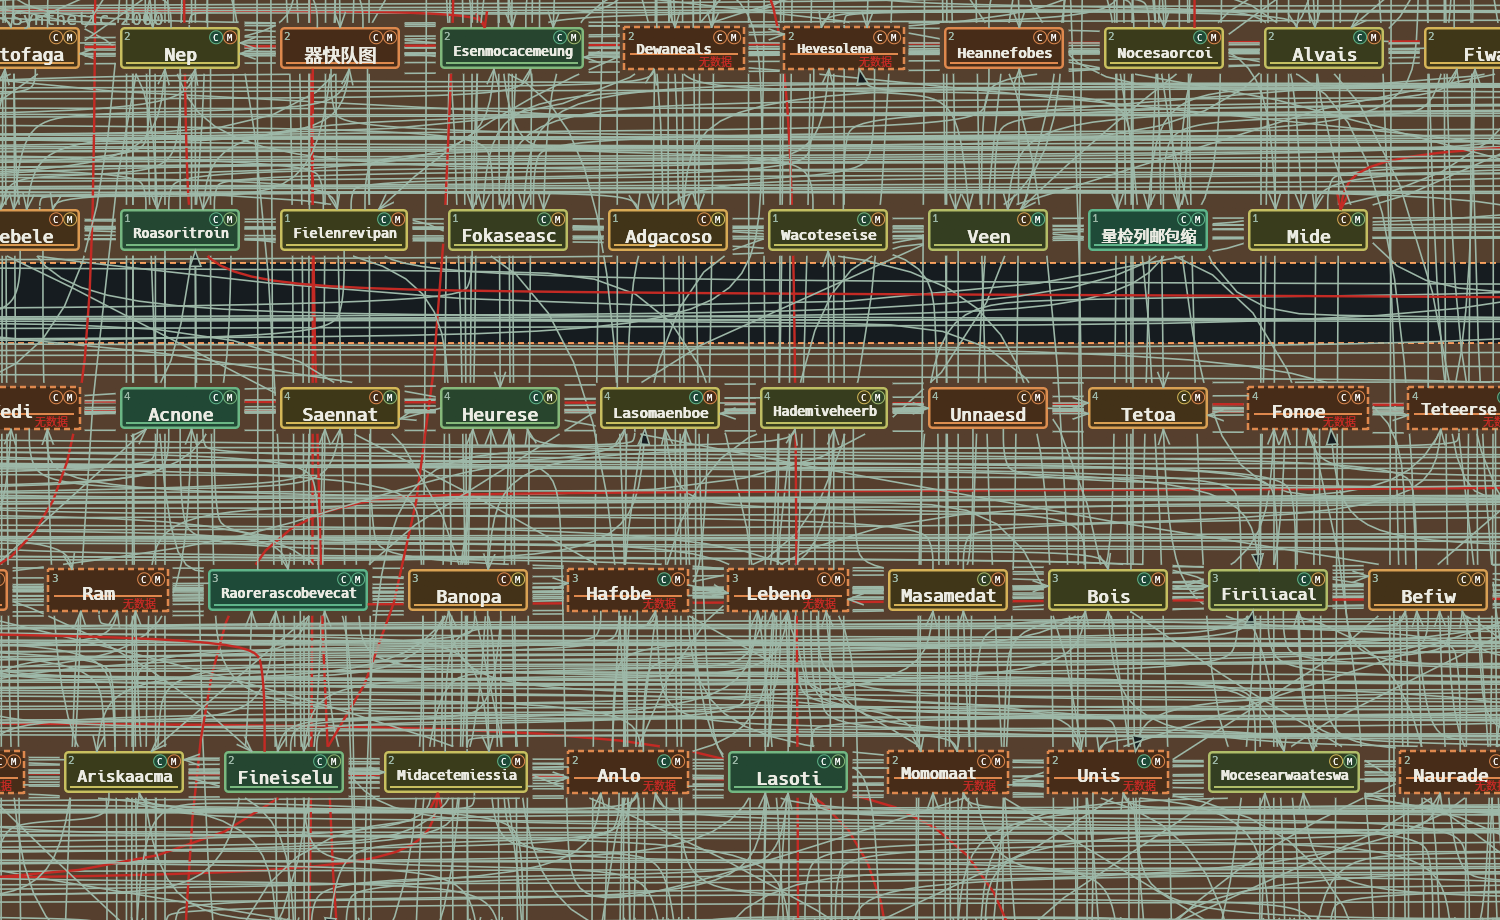
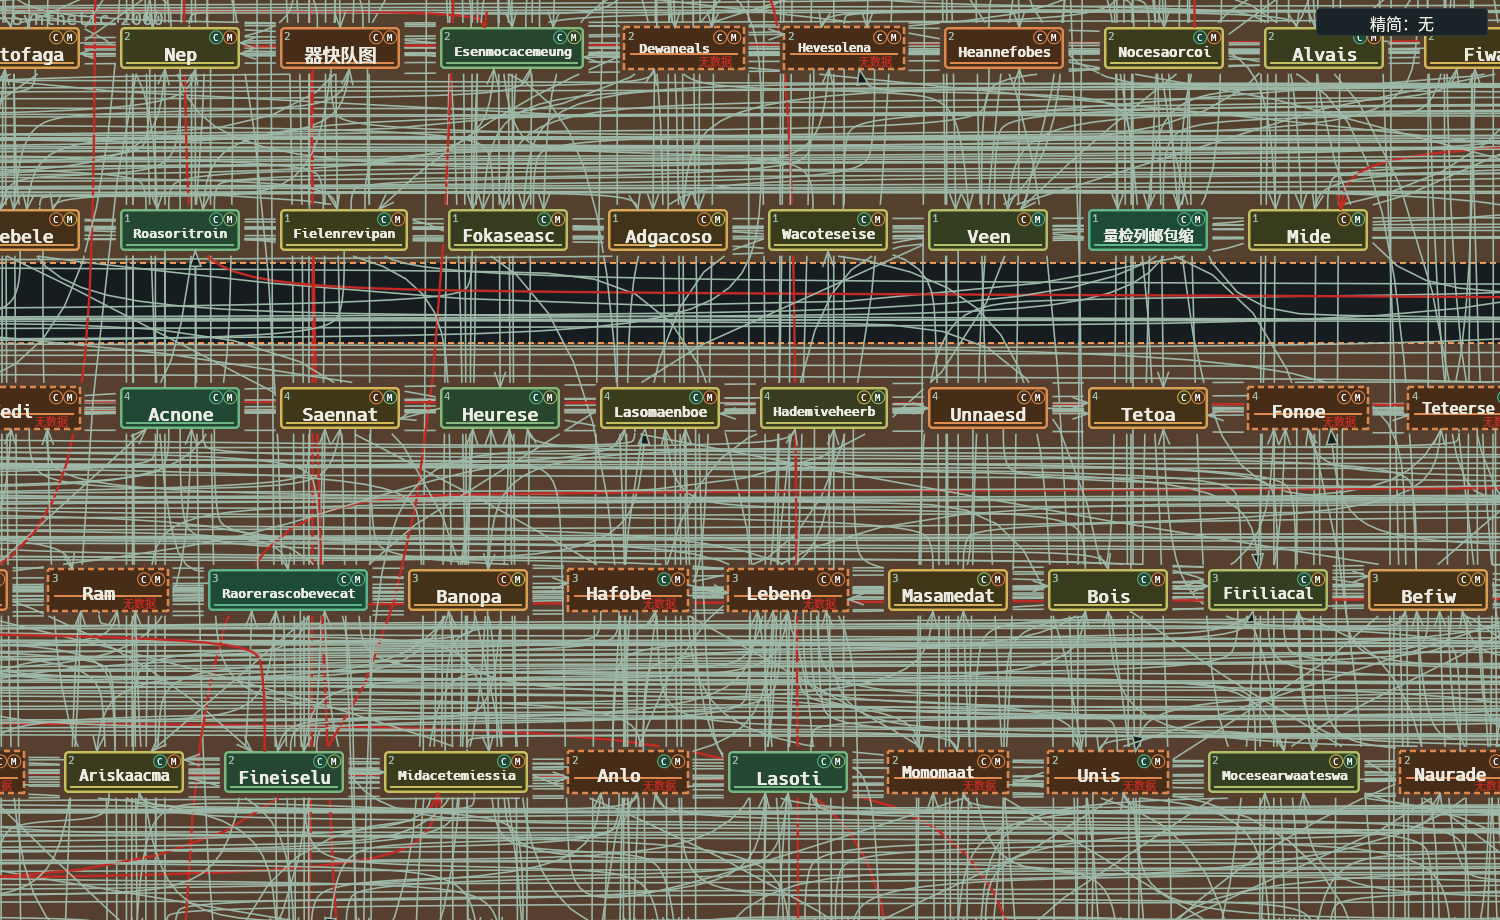
docs(acceptance): #143 protocol-1 re-measured after the render cache fix

diff --git a/acceptance-evidence/143-rust-install/README.md b/acceptance-evidence/143-rust-install/README.md
@@ -11,9 +11,9 @@ egui/eframe 0.37 + wgpu GL 后端，Mesa 25.2.8。所有数字均为本机实测
 |---|---|---|
 | 缺依赖时给出明确提示 | 通过 | `scripts/test_posix_entries.py`：缺 cargo（提示 rustup / `UML_CARGO_EXECUTABLE`，且不创建 `.uml-viewer/`）、缺 git、cargo 版本与 `rust-toolchain.toml` 不符（同时列出要求版本与实际版本）、构建未产出二进制；缺 libxkbcommon-x11 只警告不拒绝（#139 选定 Wayland 无装饰） |
 | 重复安装幂等 | 通过 | `test_reinstall_is_idempotent_and_provisions_all_three_tools`：两次安装都成功；policy（含 `:proposals`）字节不变；每次都在 `.uml-viewer/uml-viewer` 中执行 `build --release --locked`；`install.json` 的 `rust` 指向 `target/release/uml-viewer`。已有 ownership/recovery 记录时拒绝（`test_install_refuses_existing_ownership`），脏工具副本仍被保留（`test_installer_preserves_dirty_tool_checkout`） |
-| 2000 类平移/缩放 p95 ≤ 33.3 ms | **未通过** | `rust-2000-d3d12/summary.txt`：p95 为 96.7 / 128.3 / 222.6 / 255.8 ms |
-| 500 类稳定 60 fps | **未通过** | `rust-500-d3d12/summary.txt`：fps 为 30.6 / 20.8 / 22.3 / 14.6 |
-| 空闲 CPU 近零（≤ 2%） | **未通过** | 500：6.41%；2000：19.81% |
+| 2000 类平移/缩放 p95 ≤ 33.3 ms | 通过（修复后） | `rust-2000-d3d12/summary.txt`：p95 为 17.59 / 17.91 / 17.59 / 29.85 ms，`verdict=PASS`，`run_rust.sh` 退出 0 |
+| 500 类稳定 60 fps | **未通过（差边缘）** | `rust-500-d3d12/summary.txt`：fps 为 59.12 / 57.86 / 59.32 / 57.05；pan-detail、pan-fit 通过，zoom-detail（57.86 fps，p95 18.10 ms）和 zoom-fit（57.05 fps，p95 19.05 ms）略低于 58 fps / 18.3 ms 门槛 |
+| 空闲 CPU 近零（≤ 2%） | 通过（修复后） | 500：0.40%；2000：0.40% |
 | 大图首帧不崩溃 | 通过 | 2000 类完整跑完 warmup 与五个相位，stderr 中没有 panic；`rust-2000-d3d12/render.png` 是第 4 帧截图 |
 | 测量结果与结论写入验收证据 | 通过 | 本文件与两个结果目录 |
 
@@ -22,6 +22,27 @@ egui/eframe 0.37 + wgpu GL 后端，Mesa 25.2.8。所有数字均为本机实测
 窗口 1500 × 920，DPI 1，vsync 用 eframe 默认值（AutoVsync）。
 
 ## Protocol 1 结果（Rust viewer，D3D12）
+
+### 修复后（`ticket/143-perf`）
+
+两次完整运行（500、2000 各一次），与 #141 agent 的 driver 运行同时进行，共享 GPU/WSLg。
+
+| 场景 | 相位 | fps | p95 ms | 进程 CPU% |
+|---|---|---|---|---|
+| 500 | idle | — | — | 0.40 |
+| 500 | pan-detail | 59.12 | 17.52 | 44.2 |
+| 500 | zoom-detail | 57.86 | 18.10 | 49.8 |
+| 500 | pan-fit | 59.32 | 17.70 | 39.4 |
+| 500 | zoom-fit | 57.05 | 19.05 | 53.9 |
+| 2000 | idle | — | — | 0.40 |
+| 2000 | pan-detail | 58.94 | 17.59 | 52.3 |
+| 2000 | zoom-detail | 58.50 | 17.91 | 57.9 |
+| 2000 | pan-fit | 58.87 | 17.59 | 42.8 |
+| 2000 | zoom-fit | 53.19 | 29.85 | 58.4 |
+
+2000 类 stderr 中没有 panic，首帧截图 `rust-2000-d3d12/render.png`。
+
+### 修复前（原始测量，结果目录已被上表覆盖）
 
 | 场景 | 相位 | fps | p95 ms | 进程 CPU% |
 |---|---|---|---|---|
@@ -42,23 +63,21 @@ egui/eframe 0.37 + wgpu GL 后端，Mesa 25.2.8。所有数字均为本机实测
 
 ## 结论与原因
 
-viewer 的性能**未**达到 protocol 1 门槛。#131 原型在同一台机器上达标
-（2000 类 p95 ≤ 26.6 ms），所以差距在 viewer 的实现，而不在平台。
-`app_cpu_ms_p95`（eframe 每帧 CPU）与帧间隔基本一致，说明瓶颈在 CPU 端：
+修复前的瓶颈（CPU 端）：`paint()` 每帧从场景 `Value` 重建全部类/边命令；文字按非整数字号拟合，绕过 egui 的 galley 缓存；
+总览档的 feathered 曲线和圆角矩形细分很贵；Blocks 档仍画全部边；空闲时按 250 ms 轮询节奏重绘。
 
-- `crates/viewer/src/paint.rs` 中的 `paint()` 每帧都要从 EDN 场景 `Value`
-  重建完整的 `commands::commands(...)`（第 343 行）和 `commands::edge_commands(...)`
-  （第 754 行），之后才做视口剔除。这正是 ADR 0008 认定的瓶颈：每帧在 CPU 上
-  重建全部几何。原型是一次性预先计算几何和每条边的包围盒。
-- 空闲 CPU 是同一种开销按 250 ms 轮询节奏触发的结果：`app.rs` 每帧都会调用
-  `request_repaint_after(POLL_INTERVAL)`，所以空闲时每秒重绘约 4 次，每次都要
-  重建完整的命令列表（500 类约 15 ms，2000 类约 63 ms）。
+修复（`crates/viewer/src/render_cache.rs`、`paint.rs`、`watch.rs`、`app.rs`、`bench.rs`）：
 
-这里没有修复。修复需要按场景 revision/选中/悬停缓存命令列表（在 `paint.rs`/`app.rs`），
-而这两个文件属于并行的 #140；我也不在验收工单里重设计 viewer 的渲染路径。
-建议另开工单：缓存命令与边几何（含预先计算的包围盒），只在 revision、选中或悬停
-变化时失效；并且只在 mtime 变化时才重绘，而不是按轮询节奏重绘。修复后用下面的
-命令复测即可。
+- 命令只在场景（revision/focus/extra）、选中或悬停变化时重建；LOD 档或总览缩放的四分之一倍频程台阶变化时只重新简化边折线
+  （距离 8 px 加 0.5 px 弦偏差）。平移和缩放只改变换。
+- 文字按整数像素拟合，排版结果跨帧缓存（图集清空或 DPI 变化时失效）；小于 5 px 的画布文字不画。
+- Frames/Blocks 档的类框、C/M 圆点、边合成一个无 feather 的 mesh；Blocks 不画边（spec #134 渲染）；小于 2 px 的圆角改为直角；
+  缩放 < 0.6 时 Full 档的边也走 mesh。
+- 空闲：后台线程只 stat IR、`.metrics/**` 和 `to-viewer.edn`，戳变化才请求重绘；driver、计时运行和待截图仍保留 250 ms 节奏。
+  bench 的 idle 相位自己安排结束时的唤醒。
+
+仍未通过：500 类的 zoom-detail 和 zoom-fit 略低于 58 fps / p95 18.3 ms（中位数都是 16.8 ms，尾部是新字号首次排版和
+Full 档 feather 细分）。2000 类全部通过。
 
 ## 复现
 
